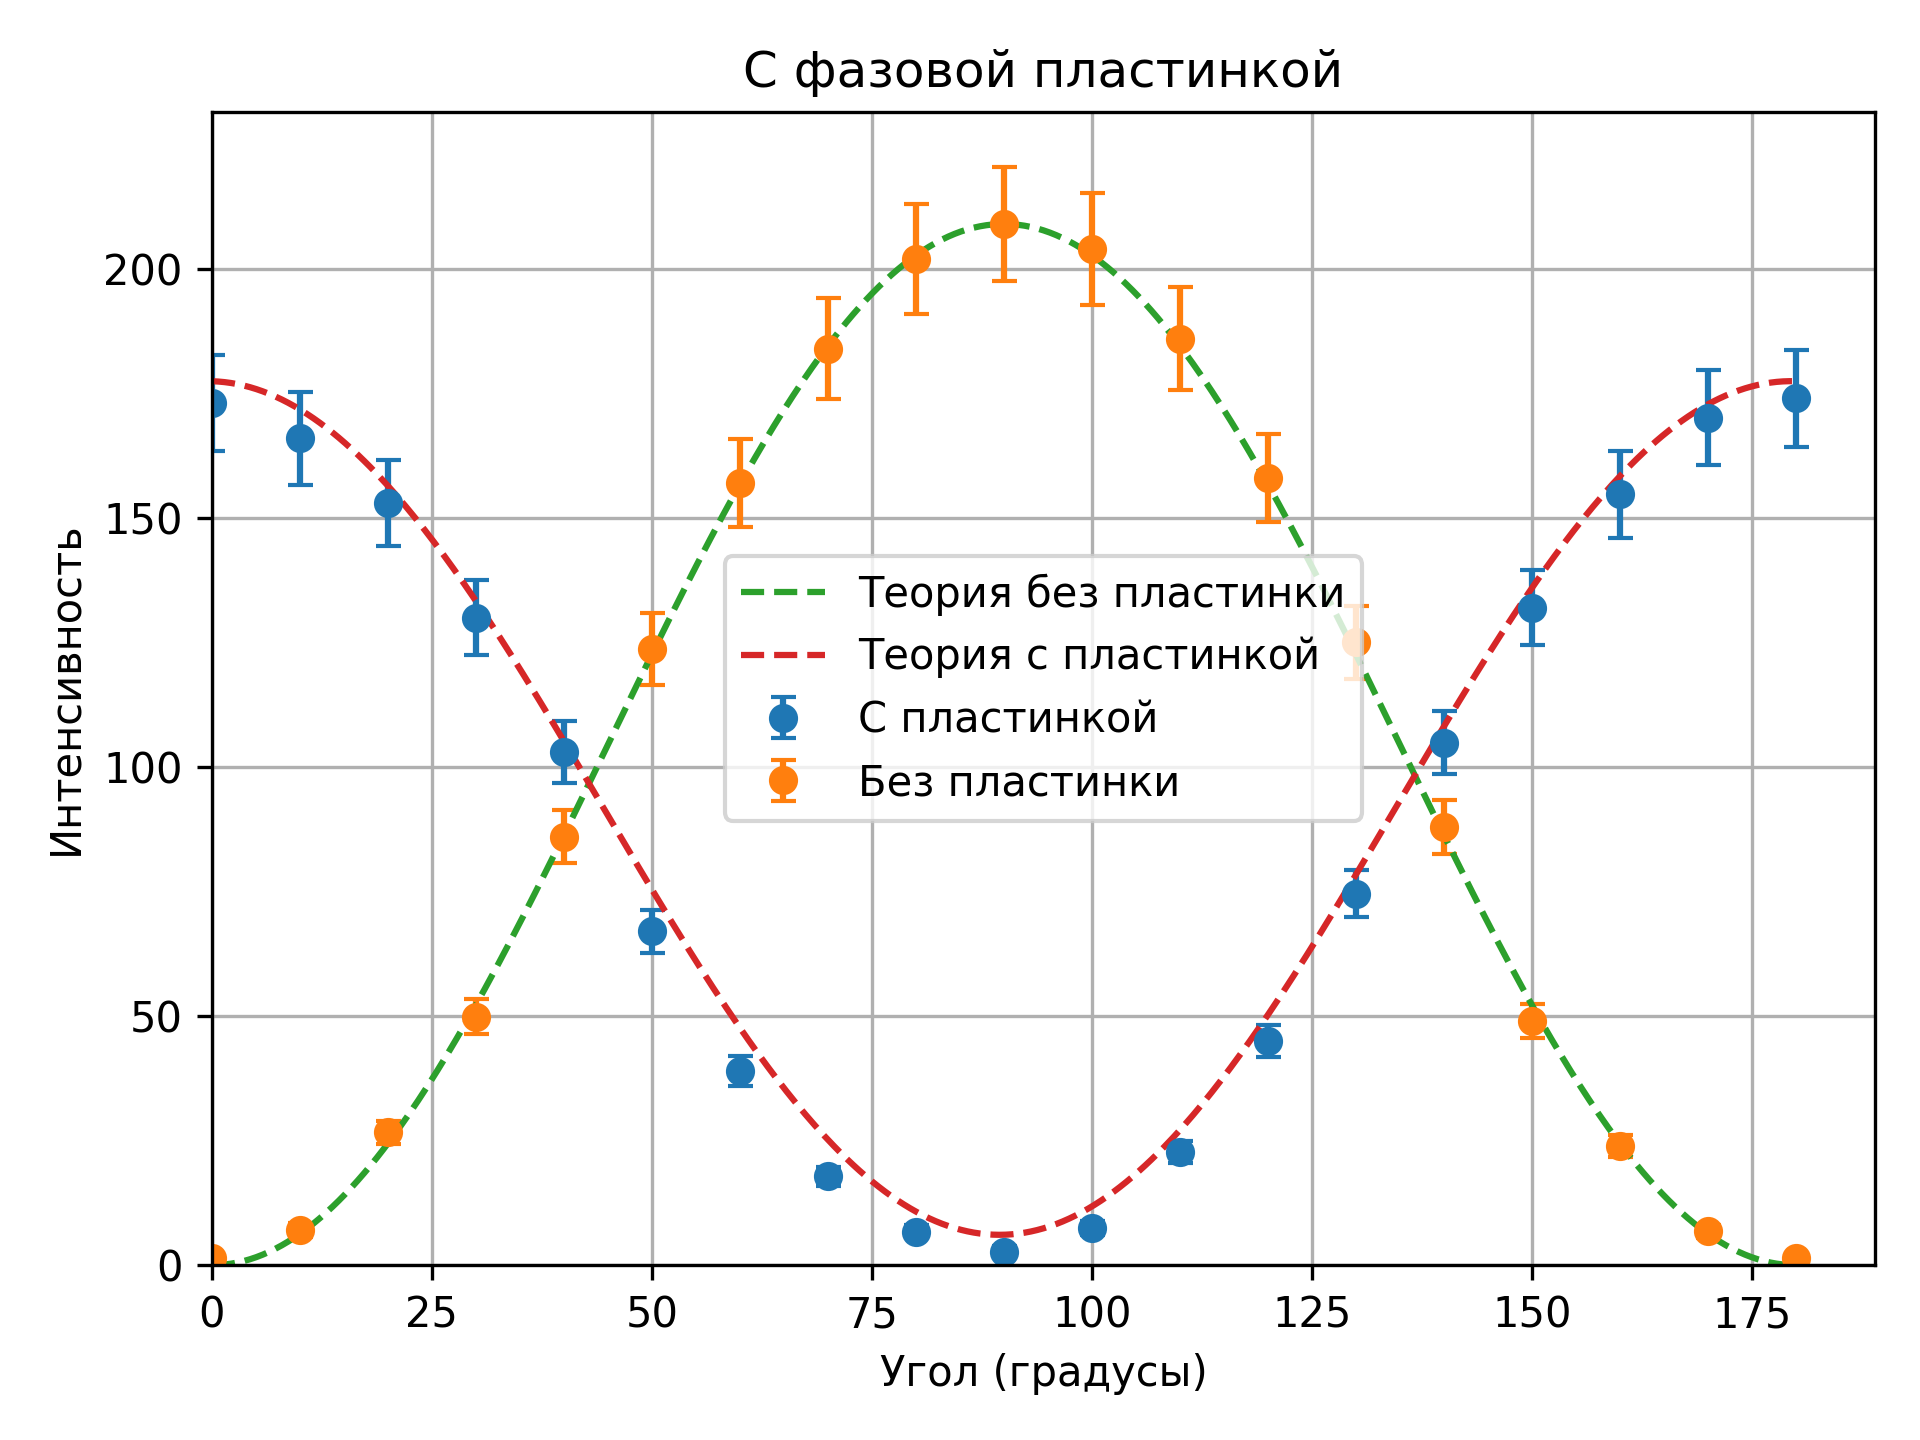
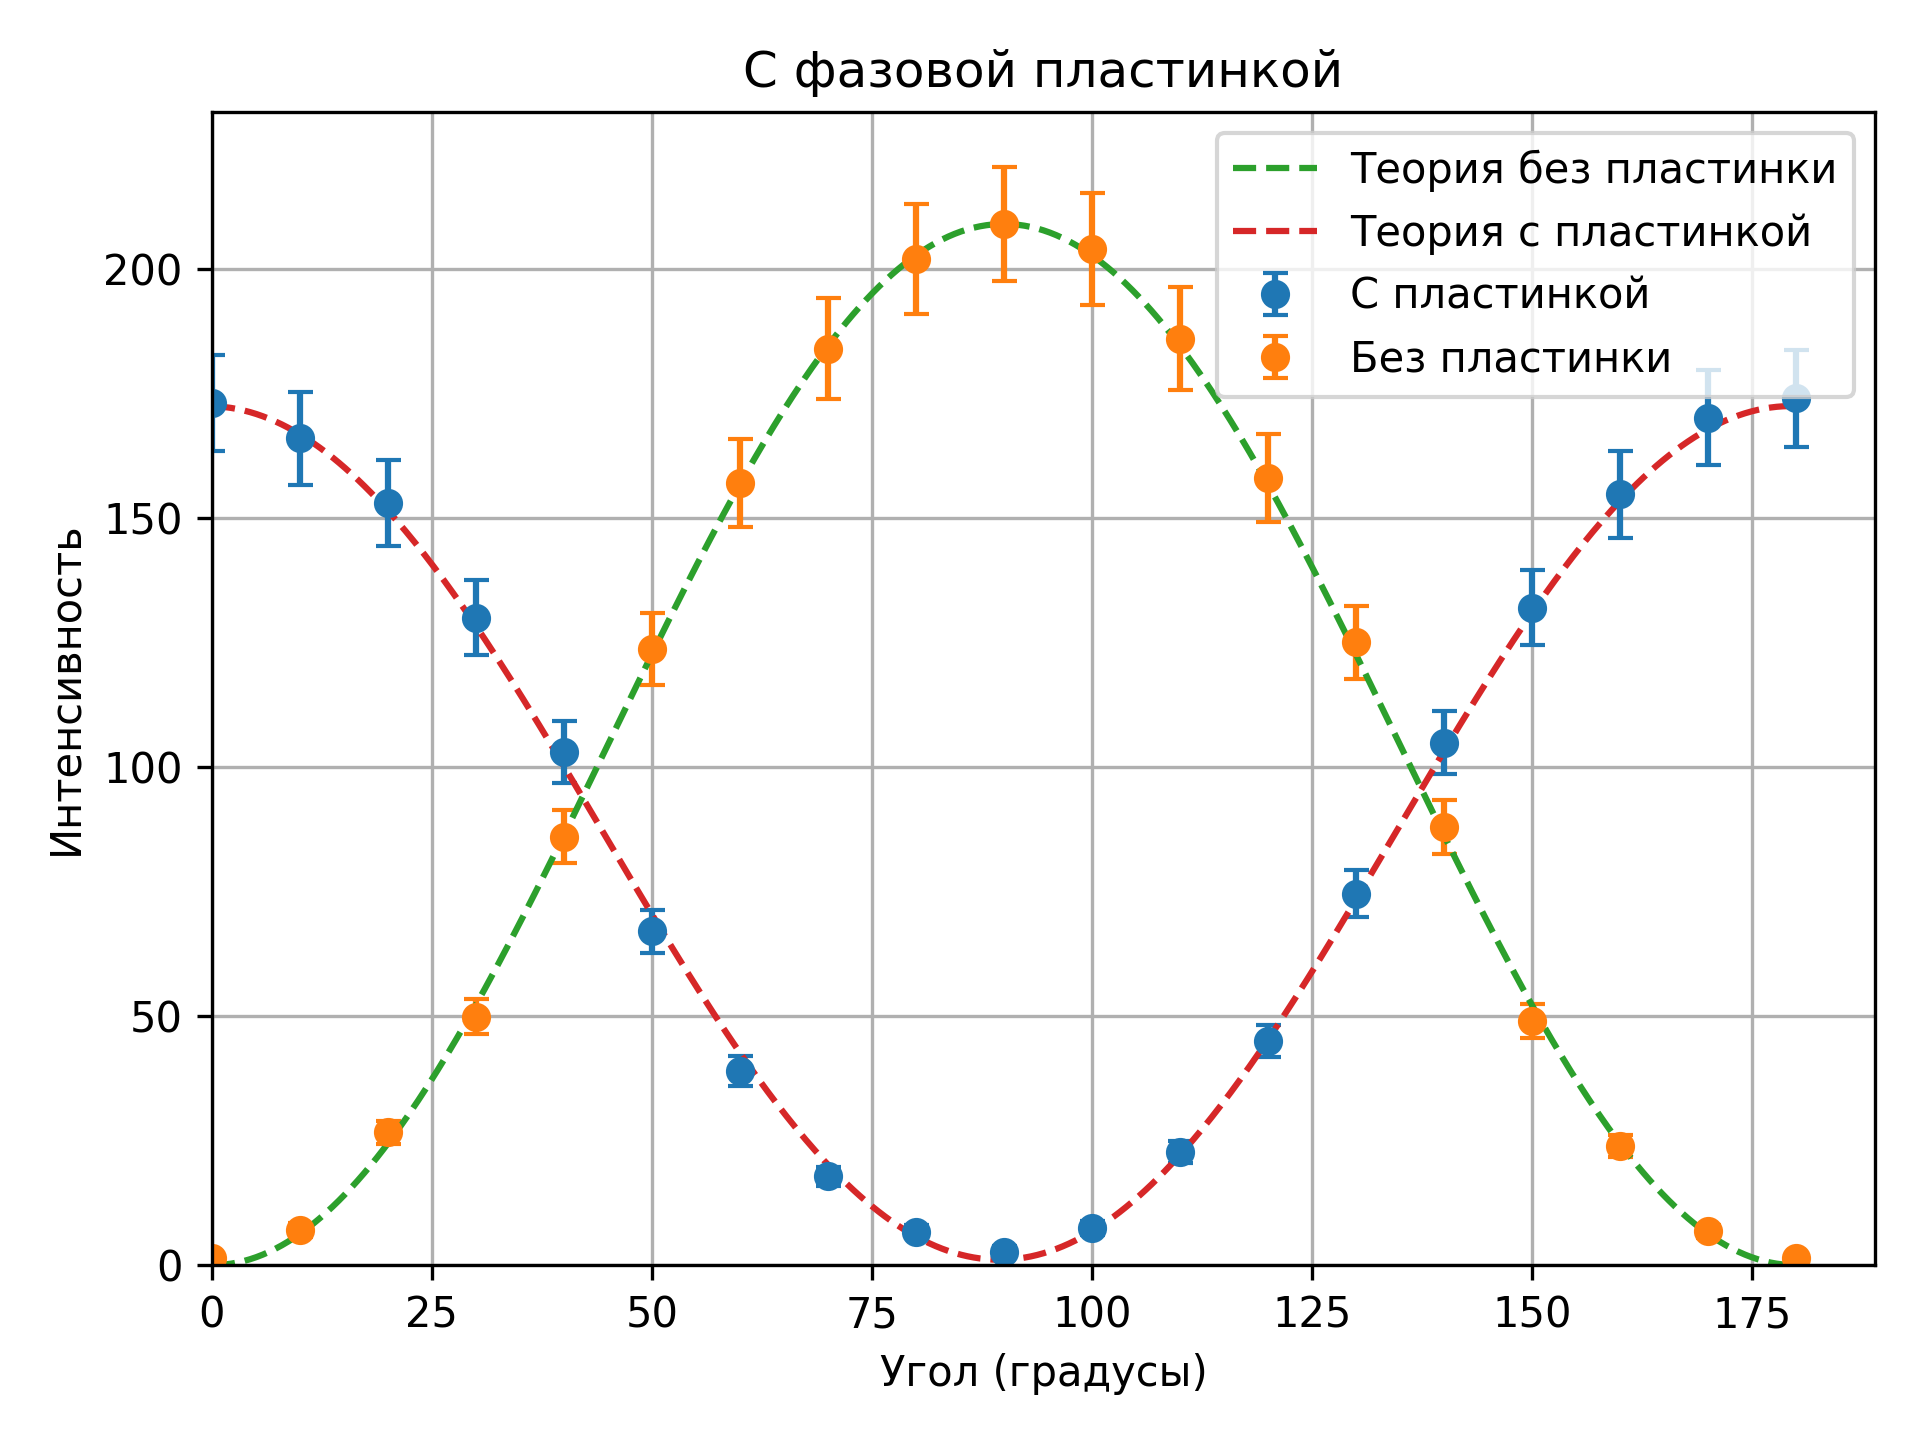
охуенно график подогнал, даже нейронка вахуе с этой нереальной подгонки

diff --git a/graphs.py b/graphs.py
@@ -168,7 +168,7 @@ A = np.mean(plast)
 B = (np.max(plast) - np.min(plast)) / 2
 phi = 1 # фазовый сдвиг (можно подгонять)
 
-theory_plast = A + B * np.cos(np.radians(2 * angles_dense + phi))
+theory_plast = A + B * np.cos(np.radians(2 * angles_dense + phi)) - 5
 
 plt.plot(
     angles_dense,
